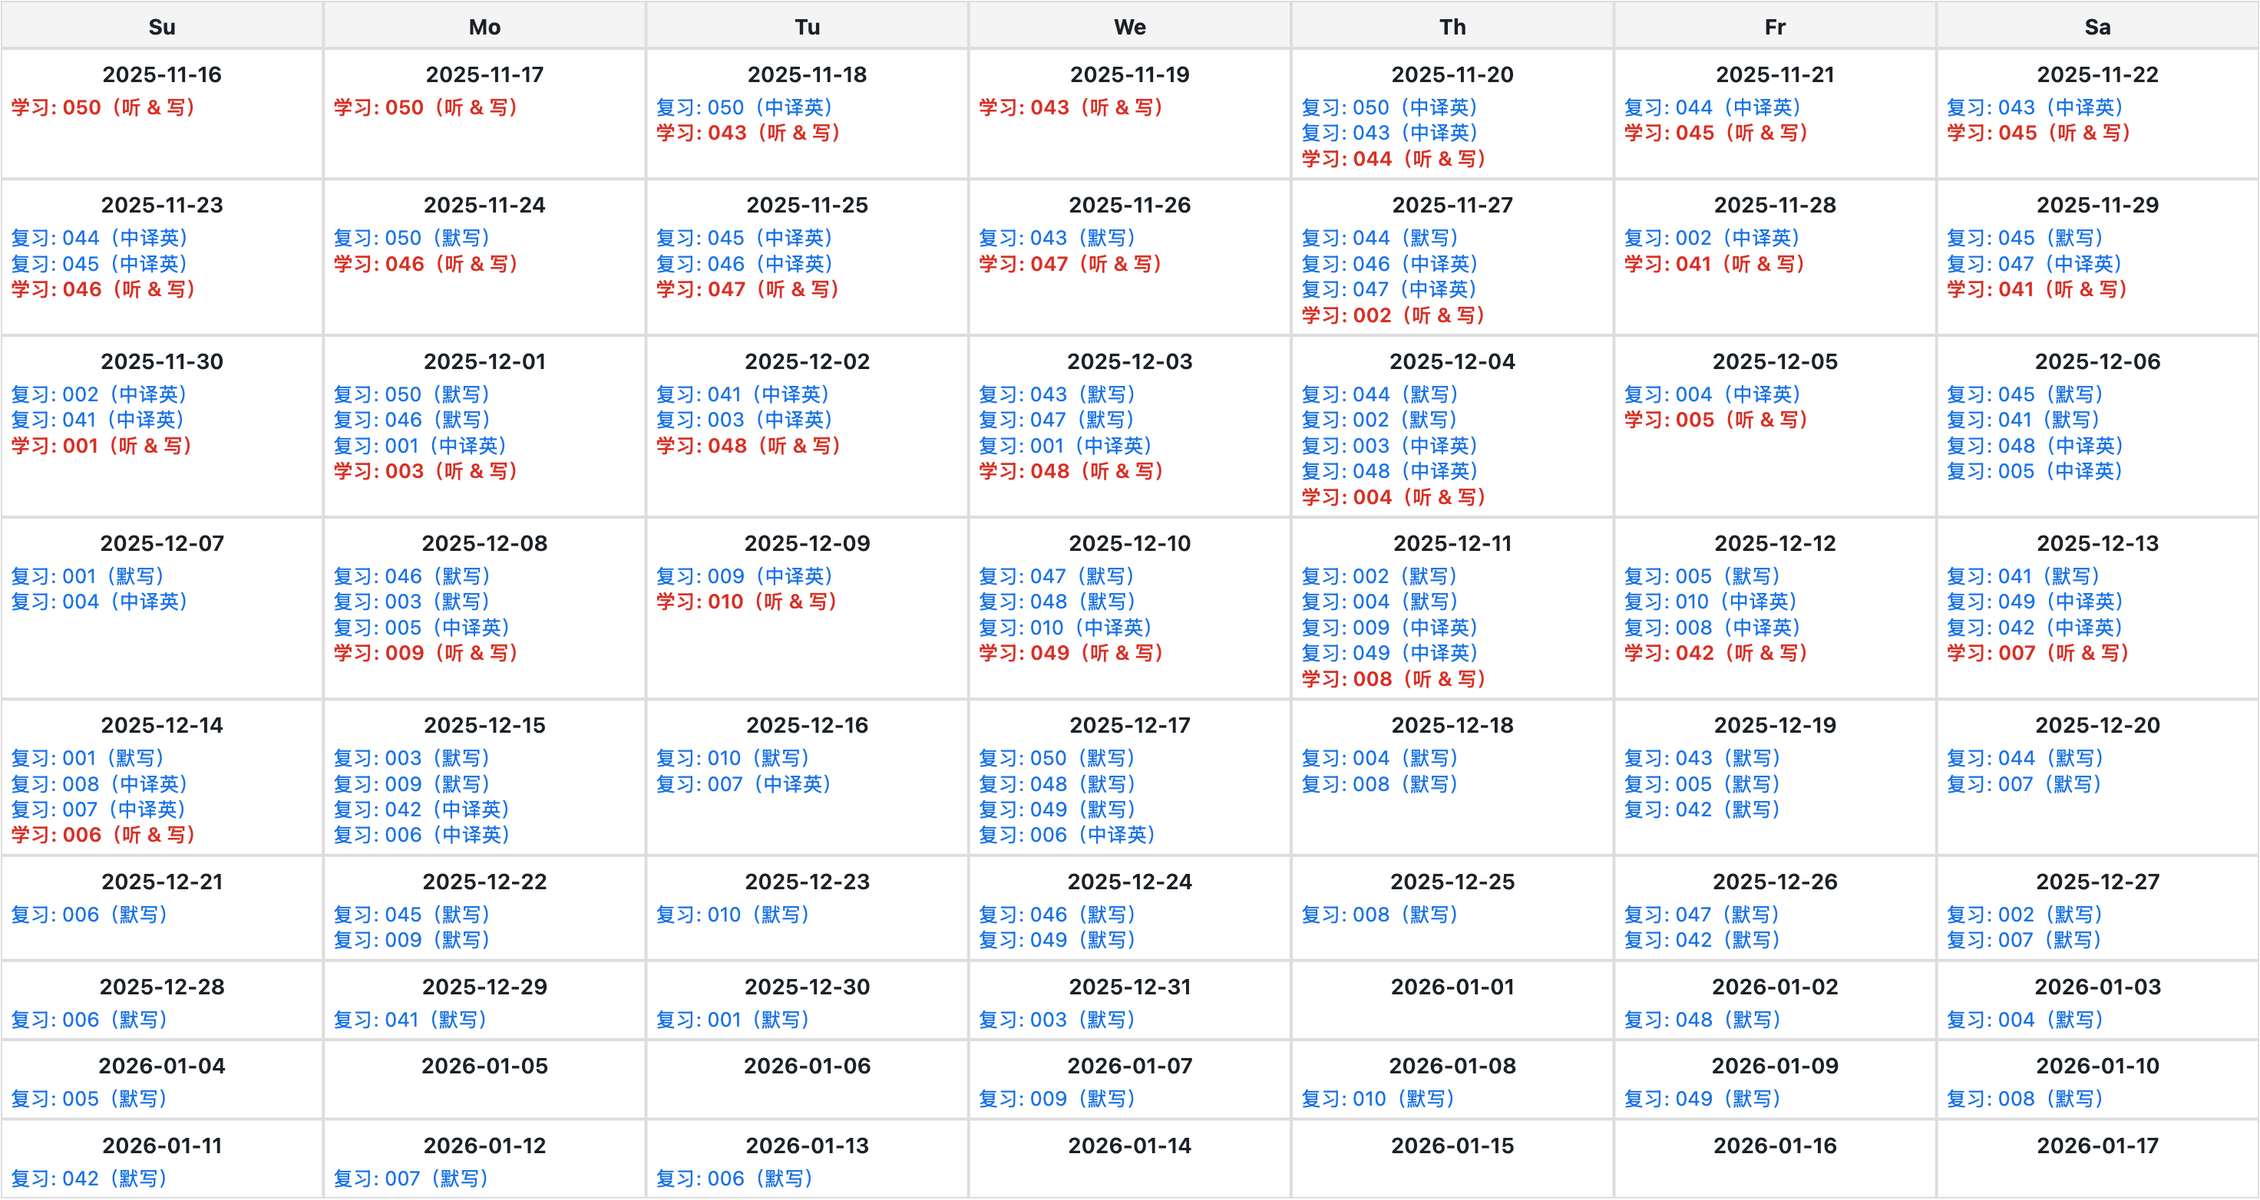
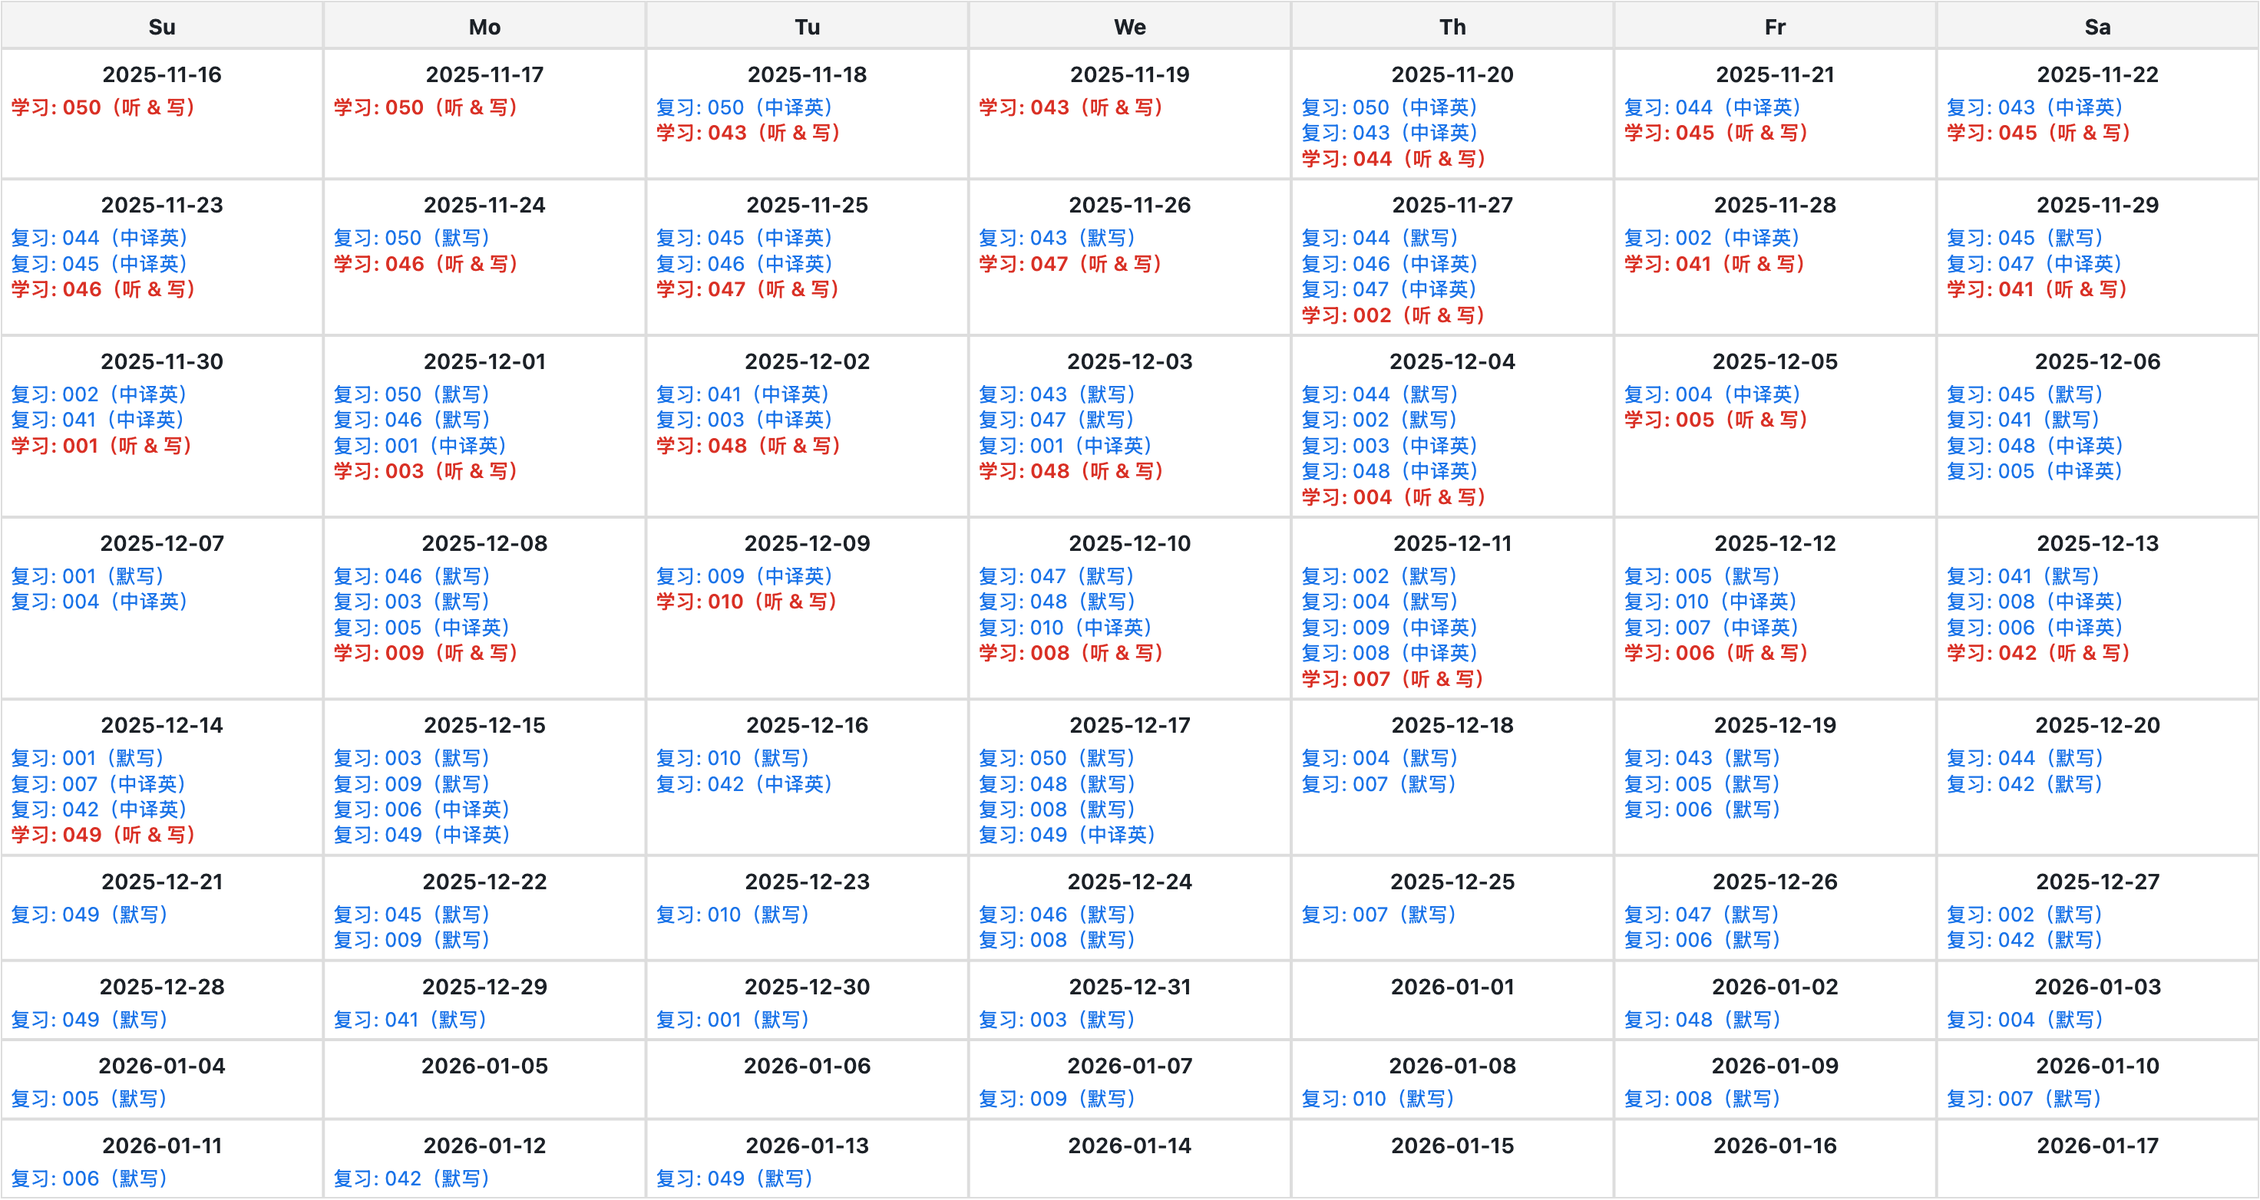
review: Unit 16-2, Unit 15-2, Unit 17-2

diff --git a/utils/html/generate-forgetting-curve-with-task-duration.html b/utils/html/generate-forgetting-curve-with-task-duration.html
@@ -148,7 +148,7 @@
         label: 'App & 笔记',
         duration: 1
       }, {label: '笔记', duration: 1}, {label: '笔记', duration: 1}],
-      restDays: '2025-10-16,2025-10-23,2025-10-24,2025-10-27,2025-10-31,2025-11-01,2025-11-06,2025-11-08,2025-11-09,2025-11-10,2025-11-11,2025-11-15,2025-11-16,2025-11-18,2025-11-20,2025-11-25,2025-11-26,2025-11-27,2025-11-28,2025-11-30,2025-12-01,2025-12-03,2025-12-05,2025-12-06,2025-12-07,2025-12-08,2025-12-12,2025-12-13'
+      restDays: '2025-10-16,2025-10-23,2025-10-24,2025-10-27,2025-10-31,2025-11-01,2025-11-06,2025-11-08,2025-11-09,2025-11-10,2025-11-11,2025-11-15,2025-11-16,2025-11-18,2025-11-20,2025-11-25,2025-11-26,2025-11-27,2025-11-28,2025-11-30,2025-12-01,2025-12-03,2025-12-05,2025-12-06,2025-12-07,2025-12-08,2025-12-10,2025-12-13'
     },
     write: {
       startDate: '2025-08-12',
@@ -191,12 +191,12 @@
         {name: '009', duration: 1},
         {name: '010', duration: 1},
 
-        {name: '049', duration: 1},
         {name: '008', duration: 1},
-        {name: '042', duration: 1},
         {name: '007', duration: 1},
+        {name: '006', duration: 1},
+        {name: '042', duration: 1},
 
-        {name: '006', duration: 1}
+        {name: '049', duration: 1},
 
       ],
       rounds: ['听 & 写',

diff --git a/english/write/utils/compare-online.html b/english/write/utils/compare-online.html
@@ -6,6 +6,7 @@
     <title>Article Compare</title>
     <style>
         body { font-family: Arial, sans-serif; margin: 20px; max-width: 100%; overflow-x: hidden; }
+        p { margin: 0; }
         textarea {
             width: 100%; height: 264px; margin-top: 10px;
             font-size: 16px;
@@ -40,7 +41,7 @@
         .legend .legend-inner {display: flex; gap: 12px; margin-left: 6px;}
         .legend .legend-inner span { display: inline-block; padding: 2px 5px; }
         .red-text-green-bg { background: #d4fcbc; color: red; font-weight: bold; text-decoration: underline; }
-        .section { margin-top: 15px; padding: 10px; padding-top: 0px; border: 1px solid #ddd; border-radius: 6px; background: #f9f9f9; }
+        .section { margin-top: 15px; padding: 10px; border: 1px solid #ddd; border-radius: 6px; background: #f9f9f9; }
         .question { display: flex; align-items: center; gap: 8px;}
         .question-wrap { display: flex; align-items: center; gap: 20px; margin-bottom: 10px; flex-wrap: wrap; }
         .hidden { display: none; }

diff --git a/english/write/001-020_letter.md b/english/write/001-020_letter.md
@@ -176,33 +176,65 @@ competitor.<br>
 
 ## 006
 
+### Directions
+
+&emsp;&emsp;You are to write an email to James Cook, a newly arrived Australian professor, recommending some tourist attractions in your city, Please give reasons for your recommendation.
+&emsp;&emsp;You should write neatly on the ANSWER SHEET.
+&emsp;&emsp;Do not sign your own name at the end of the email. Use “Li Ming” instead.
+&emsp;&emsp;Do not write the address.
+
+### Example
+
 Dear Professor Cook,<br>
-&emsp;&emsp;We are greatly honored to welcome you as a guest professor at our university. I would like to
-recommend two scenic spots in our city: the Palace Museum and the Great Wall.<br>
-&emsp;&emsp;The primary reasons are as follows. To begin with, the Palace Museum, also known as the
-Forbidden City, was the imperial palace of the Ming and Qing Dynasties. **It is also the largest piece of ancient
-Chinese architecture currently existing.** Meanwhile, the Great Wall, symbolizing China's ancient civilization, **is one
-of the world's most renowned projects**. **As the great creation of the ancient Chinese people and one of the wonders of
-the world**, it was listed as one of the world cultural heritage sites in 1987.<br>
-&emsp;&emsp;I hope you will have the opportunity to visit one or both of these spots. We wish you enjoy your
-stay in our city.<br>
+&emsp;&emsp;We are greatly honored to welcome you as a guest professor at our university. I would like to recommend two scenic spots in our city: the Palace Museum and the Great Wall.<br>
+&emsp;&emsp;The primary reasons are as follows. To begin with, the Palace Museum, also known as the Forbidden City, was the imperial palace of the Ming and Qing Dynasties. It is also the largest piece of ancient Chinese architecture currently existing. Meanwhile, the Great Wall, symbolizing China's ancient civilization, is one of the world's most renowned projects. As the great creation of the ancient Chinese people and one of the wonders of the world, it was listed as a World Cultural Heritage site in 1987.<br>
+&emsp;&emsp;I hope you will have the opportunity to visit one or both of these spots. We wish you an enjoyable stay in our city.<br>
 <p align="right">Yours sincerely,</p>
 <p align="right">Li Ming</p>
+
+### 译文
+
+尊敬的库克教授：<br>
+&emsp;&emsp;我们非常荣幸地欢迎您成为我校的客座教授。我想推荐本市的两个景点：故宫和长城
+&emsp;&emsp;主要原因如下：首先，故宫博物院也被称为紫禁城，曾经是明代和清代的皇家宫殿。这座宫殿也是目前仍然屹立的最大的中国古代建筑。同时，长城象征着中国的古代文明是世界上最著名的工程之一。长城是中国古代人民的伟大创造，也是世界奇迹之一，1987年被列为世界文化遗产之一。<br>
+&emsp;&emsp;我希望您将有机会参观这两个景点。我们希望您享受待在本市的时光。<br>
+
+<p align="right">您真诚的</p>
+<p align="right">李明</p>
 
 ## 007
 
+### Directions
+
+Suppose you have to cancel your travel plan and will not be able to visit Professor Smith. Write him an email to
+
+1) apologize and explain the situation, and
+2) suggest a future meeting.
+
+You should write about 100 words on the ANSWER SHEET
+Do not use your own name. Use "Li Ming" instead.
+Do not write your address.
+
+
+### Example
+
 Dear Professor Smith,<br>
-&emsp;&emsp;I am looking forward to my travel to the United States and **visiting** you in Harvard
-University.<br>
-&emsp;&emsp;**Unfortunately**, I have recently been diagnosed with a serious ear infection which will
-require **surgery** on the same day as my departure. I am sorry to say that I will therefore not be able to make the
-travel plan. If possible, I would like to postpone the travel plan to another day later this year. I promise that such a
-situation **does** not usually happen, and **apologize** for any **inconvenience** this may cause you.<br>
-&emsp;&emsp;Please excuse me for not being able to inform you of my situation sooner. Your prompt attention
-to my suggestion would be highly appreciated.<br>
+&emsp;&emsp;I am looking forward to my travel to the United States and visiting you in Harvard University.<br>
+&emsp;&emsp;Unfortunately, I have recently been diagnosed with a serious ear infection which will require surgery on the same day as my departure. I am sorry to say that I will therefore not be able to make the travel plan. If possible, I would like to postpone the travel plan to another day later this year. I promise that such a situation does not usually happen, and apologize for any inconvenience this may cause you.<br> 
+&emsp;&emsp;Please excuse me for not being able to inform you of my situation sooner. Your prompt attention to my suggestion would be highly appreciated.<br>
 
 <p align="right">Yours sincerely,</p>
 <p align="right">Li Ming</p>
+
+### 译文
+
+尊敬的史密斯教授：<br>
+&emsp;&emsp;我期待着去美国旅行并去哈佛大学拜访您。<br>
+&emsp;&emsp;不幸的是,最近我被诊断出患上了一种严重的耳部感染疾病,需要在出发当天进行手术。因此，很抱歉我将不能继续旅行计划。如果可能的话，我希望将旅行计划推迟至今年的其他时间。我保证类似情况绝非经常发生，由此可能给您造成的任何不便，我深表歉意。<br>
+&emsp;&emsp;请原谅我没能提早告诉您我的情况。希望您能及时关注我的建议，我将不胜感激。<br>
+
+<p align="right">您真诚的</p>
+<p align="right">李明</p>
 
 ## 008
 
@@ -258,12 +290,8 @@ Do not use your own name in your email; use 'Li Ming" instead
 
 Dear Paul,<br>
 &emsp;&emsp;I'm glad to hear from you. Thank you for your enthusiastic response to the event!<br>
-&emsp;&emsp;As you know, I will invite a great many craftsmen to our campus. They will show a variety of innovative
-Chinese craft-making, especially silk-making. Silk-making is a handicraft inherited from ancient China, as well as a
-traditional art form. Silk is a symbol of ancient Chinese culture, and the long history of China's silk industry is a
-brilliant page in the encyclopedia of Chinese culture.<br>
-&emsp;&emsp;This event is going to be held in the Students' Recreation Center from 10:00 am to 4:00 pm on May 1, 2025.
-Could you please help me to write the letters of invitation to all the craftsmen? Looking forward to your support.<br>
+&emsp;&emsp;As you know, I will invite a great many craftsmen to our campus. They will show a variety of innovative Chinese craft-making, especially silk-making. Silk-making is a handicraft inherited from ancient China, as well as a traditional art form. Silk is a symbol of ancient Chinese culture, and the long history of China's silk industry is a brilliant page in the encyclopedia of Chinese culture.<br>
+&emsp;&emsp;This event is going to be held in the Students' Recreation Center from 10:00 am to 4:00 pm on May 1, 2025. Could you please help me to write the letters of invitation to all the craftsmen? Looking forward to your support.<br>
 
 <p align="right">Yours faithfully,</p>
 <p align="right">Li Ming</p>

diff --git a/english/word/core/Unit18-2.md b/english/word/core/Unit18-2.md
@@ -22,7 +22,7 @@
 - vt. 监控；监听
 - surveillance
     - n. 监视
-    - survey 调查
+    - survey vt. 调查
 
 ## operate
 
@@ -38,26 +38,30 @@
 
 - vt. 发起；赞助
 - n. 倡议者
-- sponsorship n. 赞助
+- sponsorship
+    - n. 赞助
+    - limit **sponsorship** of sports events
 
 ## mere
 
 - adj. 仅仅的
+- **Mere** curiosity adds wings to every step.
 - merely adv. 仅仅
 - bare
     - adj. 刚刚够的
     - barely
         - adv. 几乎不
-        - We barely talk.
+        - We **barely** talk.
         - ...there was so many people in a much worse state, with **barely** any money to spend on food...
 
 ## trace
 
 - vt. 追溯；勾画出（轮廓），描绘
 - track
-    - vt. 追踪；跟踪； n. 轨道
-    - In December 2010 America's Federal Trade Commission proposed adding a "<ins>do not track(无痕浏览)</ins>" option
-      to internet browsers...
+    - vt. 追踪；跟踪
+    - n. 轨道
+    - In December 2010 America's Federal Trade Commission proposed adding a "<ins>do not **track**(无痕浏览)</ins>"
+      option to internet browsers...
 - hint v. 暗示（hint at）
 - cue n. 提示；暗示
 
@@ -68,7 +72,7 @@
 - intuition
     - n. 直觉
     - **Intuition**'s special powers are unleashed only in certain circumstances.
-    - == instinct
+    - == instinct [ˈɪnstɪŋkt] n. 本能；直觉
 - illusion
     - n. 错觉
     - illusory adj. 虚幻的
@@ -82,24 +86,27 @@
 
 - n. 默认
 - betray
-    - vt. 违背
-    - When I tell someone I will not betray confidence I keep my word.
-    - She studied his face，but it betrayed nothing.
+    - vt. 违背；流露
+    - When I tell someone I will not **betray** confidence I keep my word.
+    - She studied his face, but it **betrayed** nothing.
 
 ## summit
 
 - n. 顶峰
-- peak vt. 达到最高水平；n. 高峰；山峰；尖形
+- peak
+    - vt. 达到最高水平
+    - n. 高峰；山峰；尖形
 
 ## odd
 
-- adj. 任意的
+- adj. 任意的；古怪的
 - odds
     - n. （事情发生的）可能性
-    - the odds
-    - The odds of a long，nasty recession are growing.
+    - The **odds** of a long, nasty recession are growing.
     - be at odds with 与...有差异
-- weird adj. 怪异的
+- weird
+    - adj. 怪异的
+    - bizarre adj. 奇异的; 古怪的
 
 ## cooperate
 
@@ -107,7 +114,7 @@
 - cooperate with sb.
 - cooperation
     - n. 合作
-    - corporation 公司
+    - corporation n. （大）公司
 - cooperative adj. 合作的
 - collaborate
     - vi. 合作
@@ -115,23 +122,28 @@
     - collaborative
         - adj. 合作的
         - collaborative nature of modern research 现代研究的合作性
+        - Opposite: solitary
+            - adj. 独自的，独立的; 单个的; 唯一的; 隐居的
+            - n. 独居者，隐士; 单独禁闭
 
 ## provoke
 
 - vt. 引起；激怒
 - evoke vt. 唤起
+- trigger
+    - vt. 引发
+    - n. （尤指引发不良反应或发展的）起因😔
+- spark
+    - vt. 引发
+    - This is because the networked computer has **sparked** a secret war between downloading and uploading-between
+      passive consumption and active creation.
+    - ...it is sure to **spark** intense opposition from the far large number of motorists who will then be affected.
 - advocate [ˈædvəkeɪt]
     - vt. 提倡；主张
     - n. 倡导者；拥护者
     - Even Tommasini, who had **advocated** Cilbert's appointment in the Times, calls him "an *unpretentious(adj.
       谦逊的 == modest)* musician <ins>with no air of the *formidable([ˈfɔːrmɪdəbl] adj. 令人敬畏的)* conductor</ins>
       about him."
-- trigger vt. 引发； n. （尤指引发不良反应或发展的）起因😔
-- spark
-    - vt. 引发
-    - This is because the networked computer has **sparked** a secret war between downloading and uploading-between
-      passive consumption and active creation.
-    - ...it is sure to **spark** intense opposition from the far large number of motorists who will then be affected.
 
 ## fortune
 
@@ -139,11 +151,17 @@
 - a good fortune
 - If she hopes her new-found **fortune** will yield lasting felling of fulfillment, she could <ins>do worse than</ins>
   read Happy Money by Elizabeth Dunn and Michael Norton.
-- fortunate adj. 幸运的
-- unfortunate adj. 不幸的
-- fortunately adv. 幸运地
-- unfortunately adv. 不幸地
-- destiny n. 命运
+- fortunate
+    - adj. 幸运的
+    - fortunately adv. 幸运地
+- unfortunate
+    - adj. 不幸的
+    - unfortunately adv. 不幸地
+- destiny
+    - n. 命运
+    - Destiny is what's meant to be.
+    - You might think it's your **destiny** to own a dog, but your sad goldfish survival rate should tell you that happy
+      pets probably aren't in your future.
 - fate
     - n. 命运
     - Its **fate** is yet to be decided.
@@ -218,10 +236,29 @@
 
 ## Words
 
+- purity
+    - n. [化学]纯度; 纯洁，纯净; 清洁，清白，清廉; （语言）纯正
+    - impurity [ɪmˈpjʊrəti] n. 污点，污染; 掺杂，不纯; 不道德，罪恶; 混杂物，粗劣品
 - irritate
     - v. 激怒，惹怒
     - irritation n. 激怒
-- indifferent 漠不关心的
+- indifferent
+    - adj. 漠不关心的
+- estimable
+    - adj. 值得尊敬的; 可估计的; 难能可贵
+- offensive
+    - adj. 冒犯的; 令人不适的; 攻击（性）的
+    - n. 侵犯; 进攻
+    - defensive
+        - adj. 防御(性)的; 戒备的; 防守的
+        - n. 存有戒心
+- snare
+    - vt. 捕捉; 诱惑; 安圈套; 陷害
+    - n. 陷阱，罗网; 诱惑; （绷在小鼓下面的）肠线; [外]（肿瘤等的）勒除器
+- degree
+    - n. **程度**；学位；级别
+- consciousness
+    - n. 意识（或觉察）
 
 ## 词组
 

diff --git a/english/word/core/Unit16-2.md b/english/word/core/Unit16-2.md
@@ -123,8 +123,8 @@
     - disappointed adj. 失望的，灰心的
     - disappointment
         - n. 失望；令人失望的人（或事物）
-        - Like the **majority** of authors, he had to suffer many *disappointments(n. 失望)* and rejections along the
-          way, but these made him <ins>all the more(更加...)</ins> determined to succeed.
+        - Like the majority of authors, he had to suffer many **disappointments** and rejections along the way, but
+          these made him <ins>all the more(更加...)</ins> determined to succeed.
 
 ## random
 
@@ -237,10 +237,10 @@
     - == modest [ˈmɑːdɪst] adj. 适度的；谦虚的；普通的
 - sincere
     - adj. 诚挚的，真诚的
-- intellectual
+- intellectual [ˌɪntəˈlektʃuəl]
     - adj. 智力的
     - n. 知识分子
-- excitement
+- excitement [ɪkˈsaɪtmənt]
     - n. 激动，兴奋
 - endurance [ɪnˈdʊrəns]
     - n. 忍耐（力）

diff --git a/english/word/core/Unit15-2.md b/english/word/core/Unit15-2.md
@@ -35,7 +35,7 @@
 
 - vt. 把...看作；款待；以...态度对待；处理
 - treat/regard/view A as B
-- How they **treat** you defines them. How you **tread** others defines you.
+- How they **treat** you defines them. How you **treat** others defines you.
 - treatment
     - n. 对待；治疗
     - If connections can be bought, a basic premise of democratic society—that all are equal in **treatment** by

diff --git a/english/word/core/Unit16-1.md b/english/word/core/Unit16-1.md
@@ -194,7 +194,9 @@
     - deference [ˈdefərəns]
         - n. 尊重，遵从
         - == respect
-- postpone [poʊˈspoʊn] vt. 推迟
+- postpone [poʊˈspoʊn]
+    - vt. 推迟
+    - postpone + 名词/动名词 + to + 时间
 
 ## fix
 
